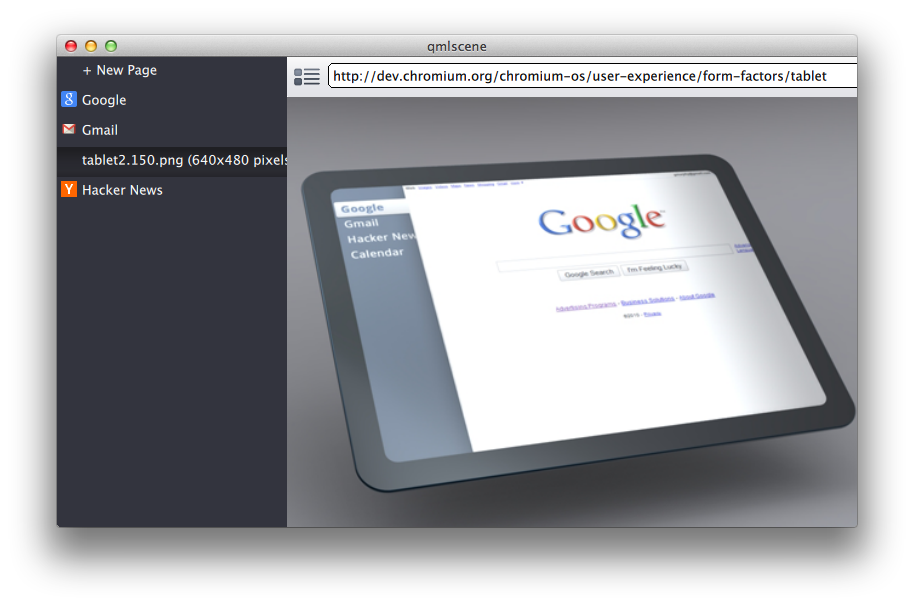
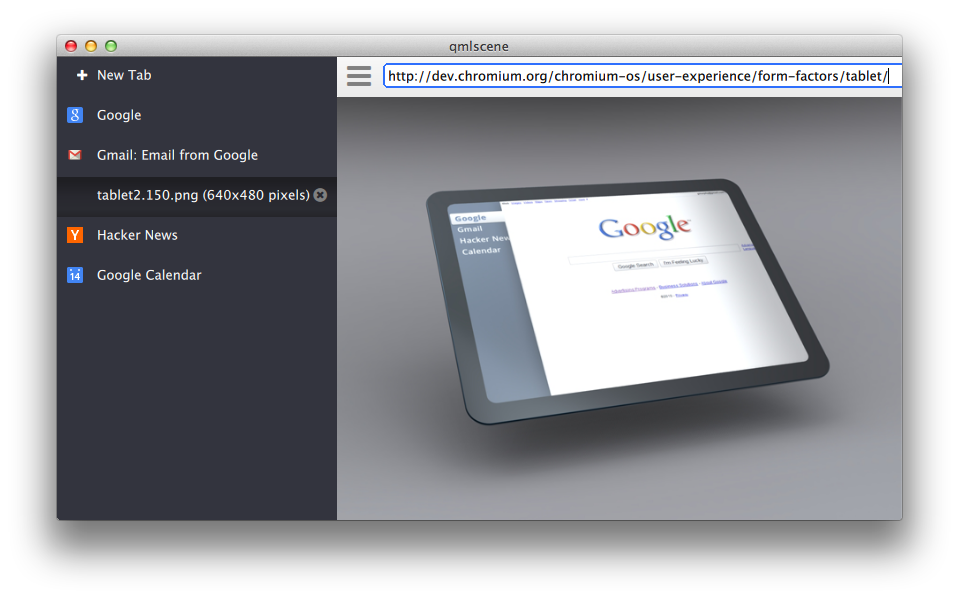
Updated screenshot

diff --git a/Shell/README.md b/Shell/README.md
@@ -1,7 +1,7 @@
-## QtWebKit Browser with Sliding-Drawer UI
+## QML WebKit Browser with Sliding Drawer UI 
 
 ![SlateKit-Shell](https://raw.github.com/penk/SlateKit/master/Shell/screenshot.png)
 
-- Using latest Qt5/QtQuick2 APIs 
-- Completely written in QML/JavaScript 
-- Sliding-Drawer UI with Tab support 
+- Based on latest Qt5/QtQuick2 APIs 
+- Purely written in QML/JavaScript with ListView/ListModel
+- Sliding Drawer UI with Tab support 
